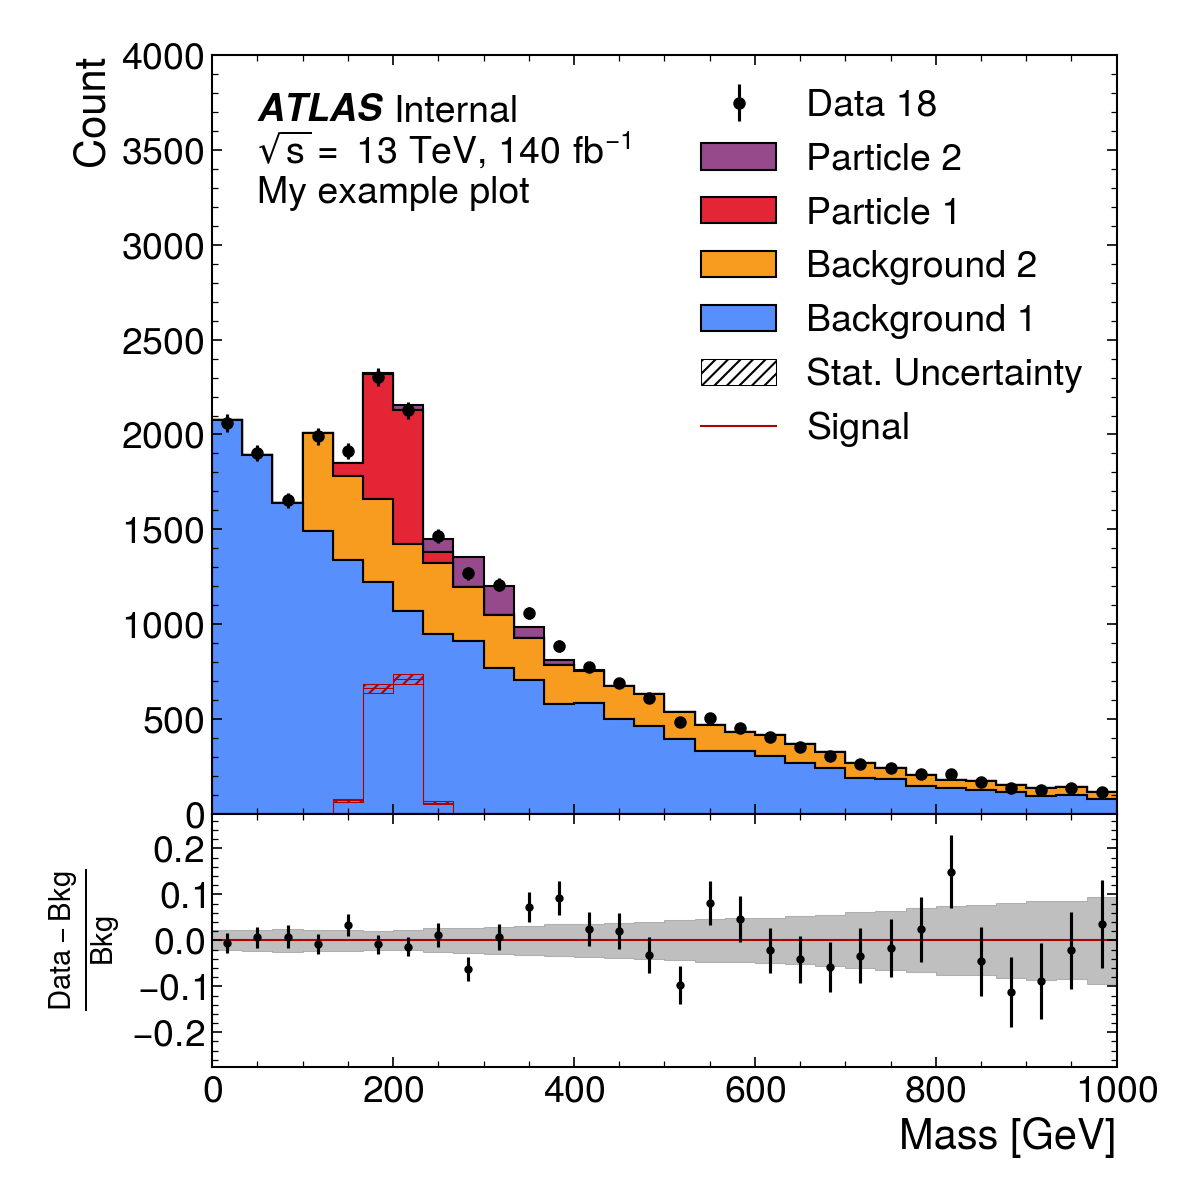
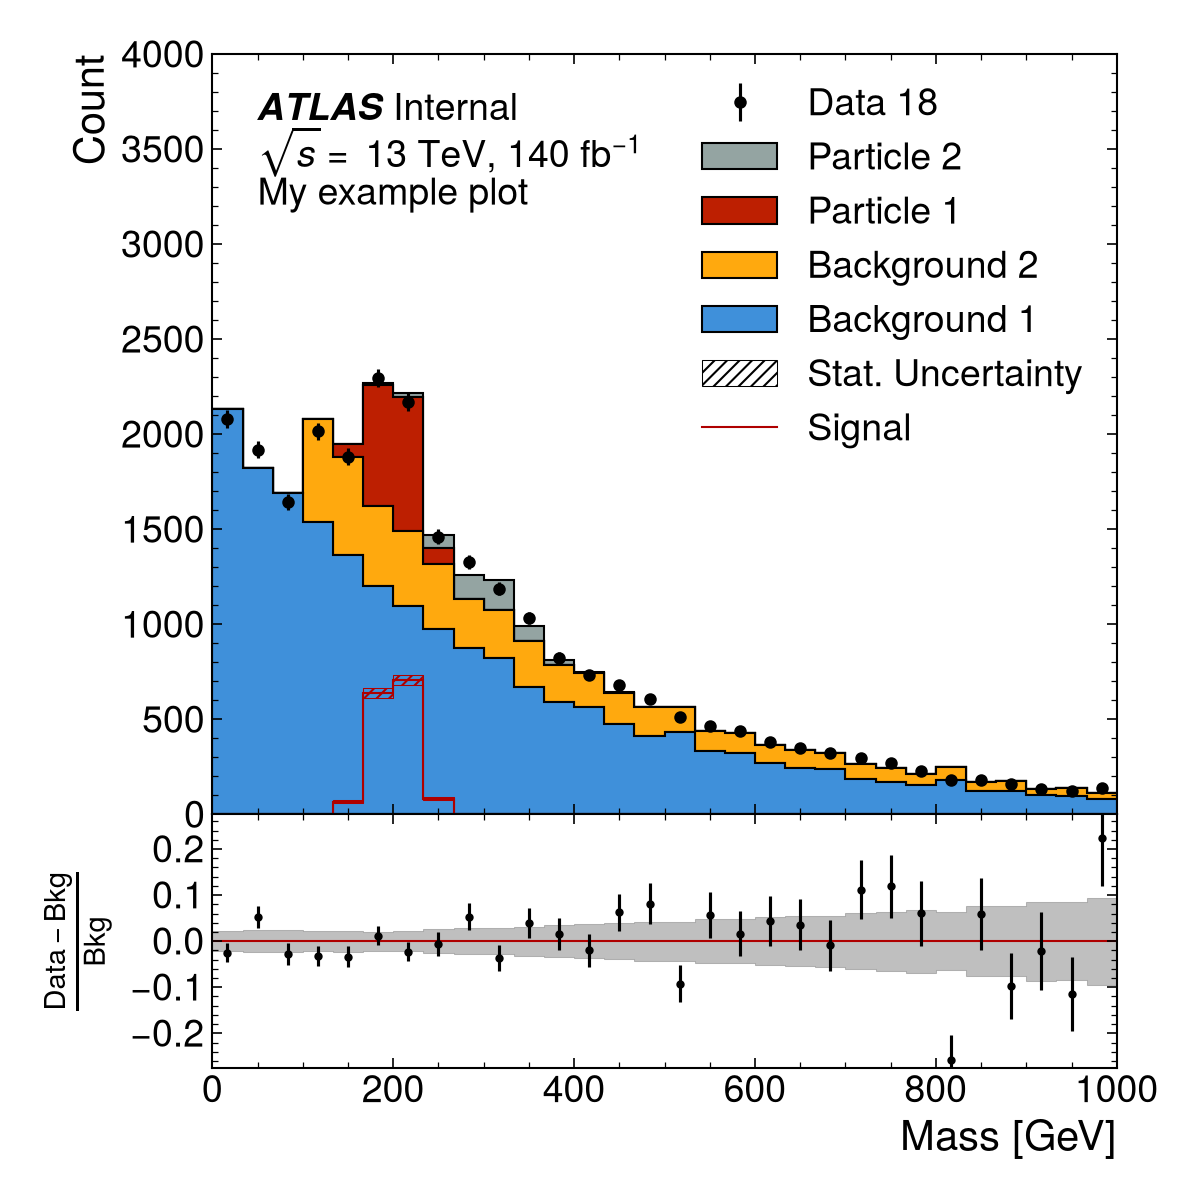
Fix label alignment issues in ratio plots and ATLAS label
- Align y-axis labels across subplots in ratio_axes() and set_ylabel()
- Use math italic for Mandelstam s in draw_atlas_label() to fix radical bar coverage
- Support overriding x, y, and ha in label setters via setdefault
- Clean up luminosity formatting and multiline text in draw_atlas_label()
- Update docs example plot output

Closes #4

AI-Assisted-By: Gemini Flash 3.8 (Antigravity)

diff --git a/atlas_mpl_style/plot.py b/atlas_mpl_style/plot.py
@@ -929,10 +929,12 @@ def set_xlabel(label, ax=None, *args, **kwargs):
     if ax is None:
         ax = _mpl.pyplot.gca()
     _u.decorate_axes(ax)
+    kwargs.setdefault("x", 1.0)
+    kwargs.setdefault("ha", "right")
     if ax._amplaxesinfo.low_ax is None:
-        ax.set_xlabel(label, x=1.0, ha="right", *args, **kwargs)
+        return ax.set_xlabel(label, *args, **kwargs)
     else:
-        ax._amplaxesinfo.low_ax.set_xlabel(label, x=1.0, ha="right", *args, **kwargs)
+        return ax._amplaxesinfo.low_ax.set_xlabel(label, *args, **kwargs)
 
 
 def set_ylabel(label, ax=None, *args, **kwargs):
@@ -950,7 +952,23 @@ def set_ylabel(label, ax=None, *args, **kwargs):
     """
     if ax is None:
         ax = _mpl.pyplot.gca()
-    ax.set_ylabel(label, y=1.0, ha="right", *args, **kwargs)
+    _u.decorate_axes(ax)
+    kwargs.setdefault("y", 1.0)
+    kwargs.setdefault("ha", "right")
+    ret = ax.set_ylabel(label, *args, **kwargs)
+    if hasattr(ax, "_amplaxesinfo"):
+        axs = []
+        if ax._amplaxesinfo.main_ax is not None:
+            axs.append(ax._amplaxesinfo.main_ax)
+        axs.append(ax)
+        if ax._amplaxesinfo.low_ax is not None:
+            if isinstance(ax._amplaxesinfo.low_ax, list):
+                axs.extend(ax._amplaxesinfo.low_ax)
+            else:
+                axs.append(ax._amplaxesinfo.low_ax)
+        if len(axs) > 1:
+            ax.figure.align_ylabels(axs)
+    return ret
 
 
 def set_zlabel(label, cbar=None, ax=None, **kwargs):
@@ -968,8 +986,10 @@ def set_zlabel(label, cbar=None, ax=None, **kwargs):
     ax : mpl.axes.Axes, optional
         If ``plot_2d`` was used, the axes can optionally be provided here.
     """
+    kwargs.setdefault("y", 1.0)
+    kwargs.setdefault("ha", "right")
     if cbar is not None:
-        cbar.set_label(label, y=1.0, ha="right", **kwargs)
+        cbar.set_label(label, **kwargs)
     else:
         if ax is None:
             ax = _mpl.pyplot.gca()
@@ -983,7 +1003,7 @@ def set_zlabel(label, cbar=None, ax=None, **kwargs):
             )
         else:
             ax._amplaxesinfo.cbar.set_ylabel(
-                label, loc="right", y=1.0, ha="right", **kwargs
+                label, loc="right", **kwargs
             )
 
 
@@ -1047,55 +1067,59 @@ def draw_atlas_label(
     show_e_nl = False
     if energy is not None:
         show_e_nl = True
-        energy_str = rf"$\sqrt{{s}} = $ {energy}"
+        energy_str = rf"$\sqrt{{\mathit{{s}}}} = $ {energy}"
     else:
         energy_str = ""
 
     if lumi is not None:
         show_e_nl = True
+        sep = ", " if energy is not None else ""
         if isinstance(lumi, str):
-            lumi_str = f", {lumi}"
+            lumi_str = f"{sep}{lumi}"
         else:
+            lt_str = "< " if lumi_lt else ""
             if _usetex:
                 lumi_str = (
-                    rf', ${"< " if lumi_lt else ""}{lumi:.4g} \ '
+                    rf'{sep}${lt_str}{lumi:.4g} \ '
                     rf"\textsf{{fb}}^{{-1}}$"
                 )
             else:
                 lumi_str = (
-                    rf', ${"< " if lumi_lt else ""}{lumi:.4g} \ ' rf"{{fb}}^{{-1}}$"
+                    rf'{sep}${lt_str}{lumi:.4g} \ ' rf"{{fb}}^{{-1}}$"
                 )
     else:
         lumi_str = ""
 
-    desc_line = desc is not None
     if _usetex:
         nl = r"\\"
-        label = (
-            rf"\textbf{{\textit{{{_atlas_label}}}}} {sim_str}{status_str}"
-            rf'{nl + "for education only" if status=="opendata" else ""}'
-            rf'{nl if show_e_nl else ""}'
-            rf'{energy_str}{lumi_str}{nl if desc_line else ""}'
-            rf'{desc if desc_line else ""}'
-        )
+        first_line = rf"\textbf{{\textit{{{_atlas_label}}}}}"
     else:
         nl = "\n"
-        label = (
-            rf"$\mathbfit{{{_atlas_label}}}$ {sim_str}{status_str}"
-            rf'{nl + "for education only" if status=="opendata" else ""}'
-            rf'{nl if show_e_nl else ""}'
-            rf'{energy_str}{lumi_str}{nl if desc_line else ""}'
-            rf'{desc if desc_line else ""}'
-        )
+        first_line = rf"$\mathbfit{{{_atlas_label}}}$"
+    if sim_str or status_str:
+        first_line += f" {sim_str}{status_str}".rstrip()
+
+    lines = [first_line]
+    if status == "opendata":
+        lines.append("for education only")
+    if show_e_nl:
+        lines.append(f"{energy_str}{lumi_str}")
+    if desc:
+        if _usetex:
+            lines.append(desc.replace("\n", r"\\"))
+        else:
+            lines.append(desc)
+    label = nl.join(lines)
+
+    kwargs.setdefault("ha", "left")
+    kwargs.setdefault("va", "top")
+    kwargs.setdefault("multialignment", "left")
+    kwargs.setdefault("transform", ax.transAxes)
     ax.text(
         x,
         y,
         label,
         *args,
-        ha="left",
-        va="top",
-        multialignment="left",
-        transform=ax.transAxes,
         **kwargs,
     )
 

diff --git a/atlas_mpl_style/__init__.py b/atlas_mpl_style/__init__.py
@@ -276,6 +276,7 @@ def use_atlas_style(atlasLabel="ATLAS", fancyLegend=False, usetex=False):
     if not usetex:
         _mpl.rcParams["text.usetex"] = False
         _mpl.rcParams["mathtext.default"] = "regular"
+        plot._usetex = False
     else:
         plot._usetex = True
         _mpl.rcParams["text.latex.preamble"] = "\n".join(
@@ -331,6 +332,7 @@ def ratio_axes(extra_axes=None):
         _u.decorate_axes(ax2)
         ax1._amplaxesinfo.low_ax = ax2
         ax2._amplaxesinfo.main_ax = ax1
+        fig.align_ylabels((ax1, ax2))
         return fig, ax1, ax2
     else:
         gs = _mpl.gridspec.GridSpec(3 + extra_axes, 1, hspace=0.0, wspace=0.0)
@@ -354,4 +356,5 @@ def ratio_axes(extra_axes=None):
             ax.autoscale(axis="x", tight=True)
             axs.append(ax)
         _mpl.pyplot.sca(ax1)
+        fig.align_ylabels((ax1, *axs))
         return fig, ax1, axs
